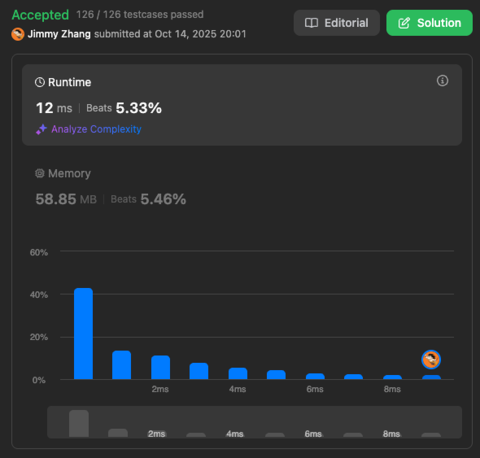
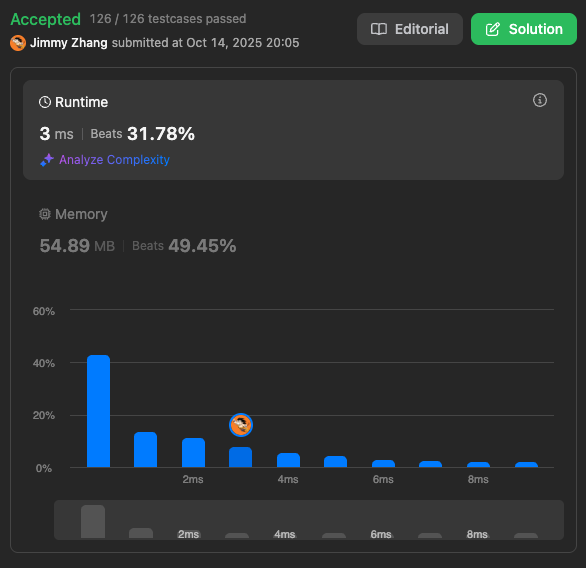
remove the console.log in script

diff --git a/LongestCommonPrefix.md b/LongestCommonPrefix.md
@@ -44,7 +44,7 @@ var longestCommonPrefix = function(strs) {
         if (prefix.length > strs[i].length) {
             prefix = strs[0].slice(0, strs[i].length);
         }
-        console.log(prefix);
+        //console.log(prefix);
         for (let j = 0; j < prefix.length; j++) {
             if (prefix[j] !== strs[i][j]) {
                 if (j == 0) return "";
